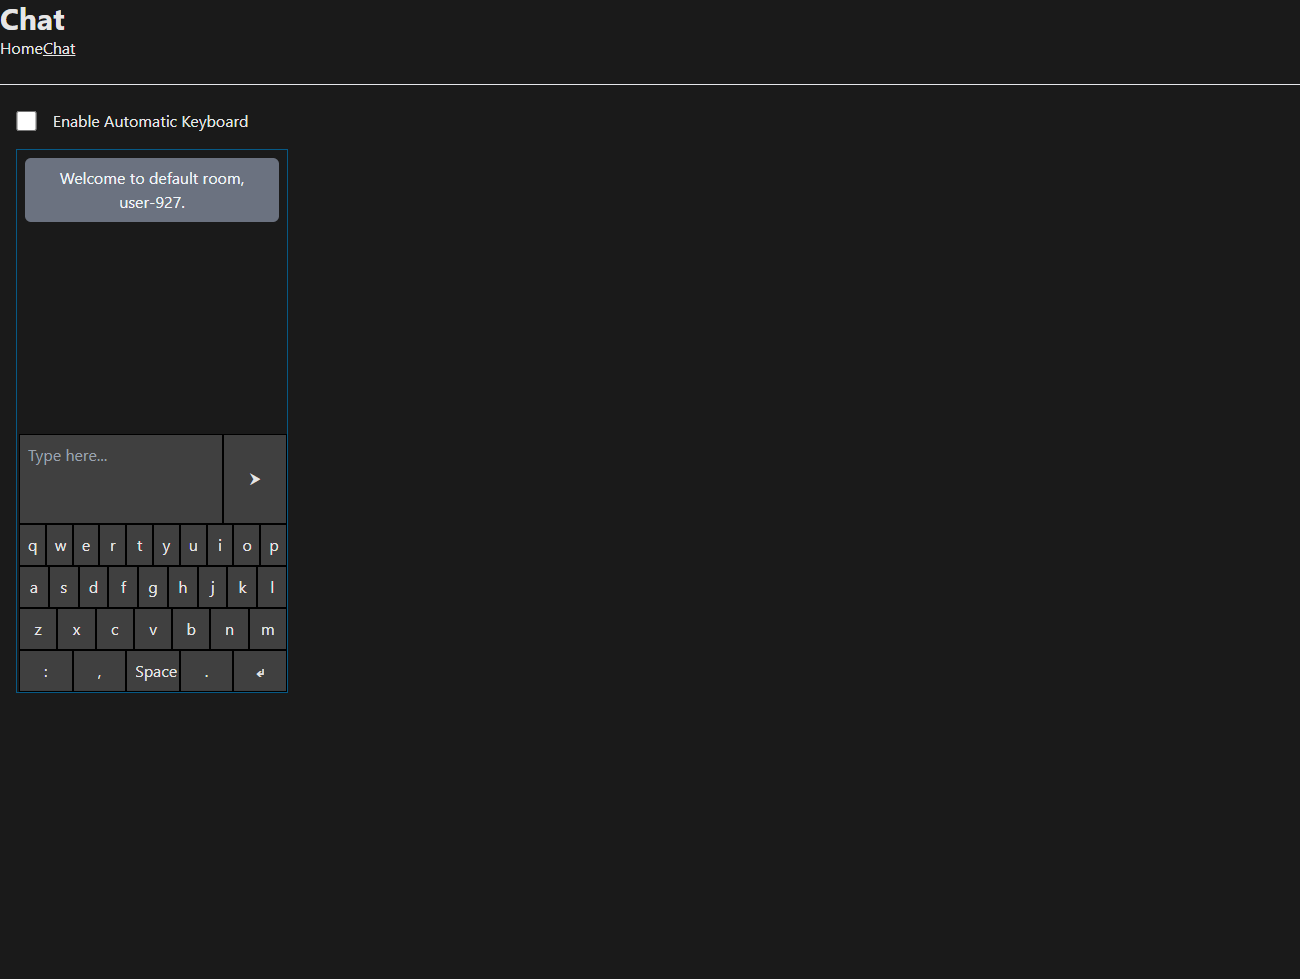
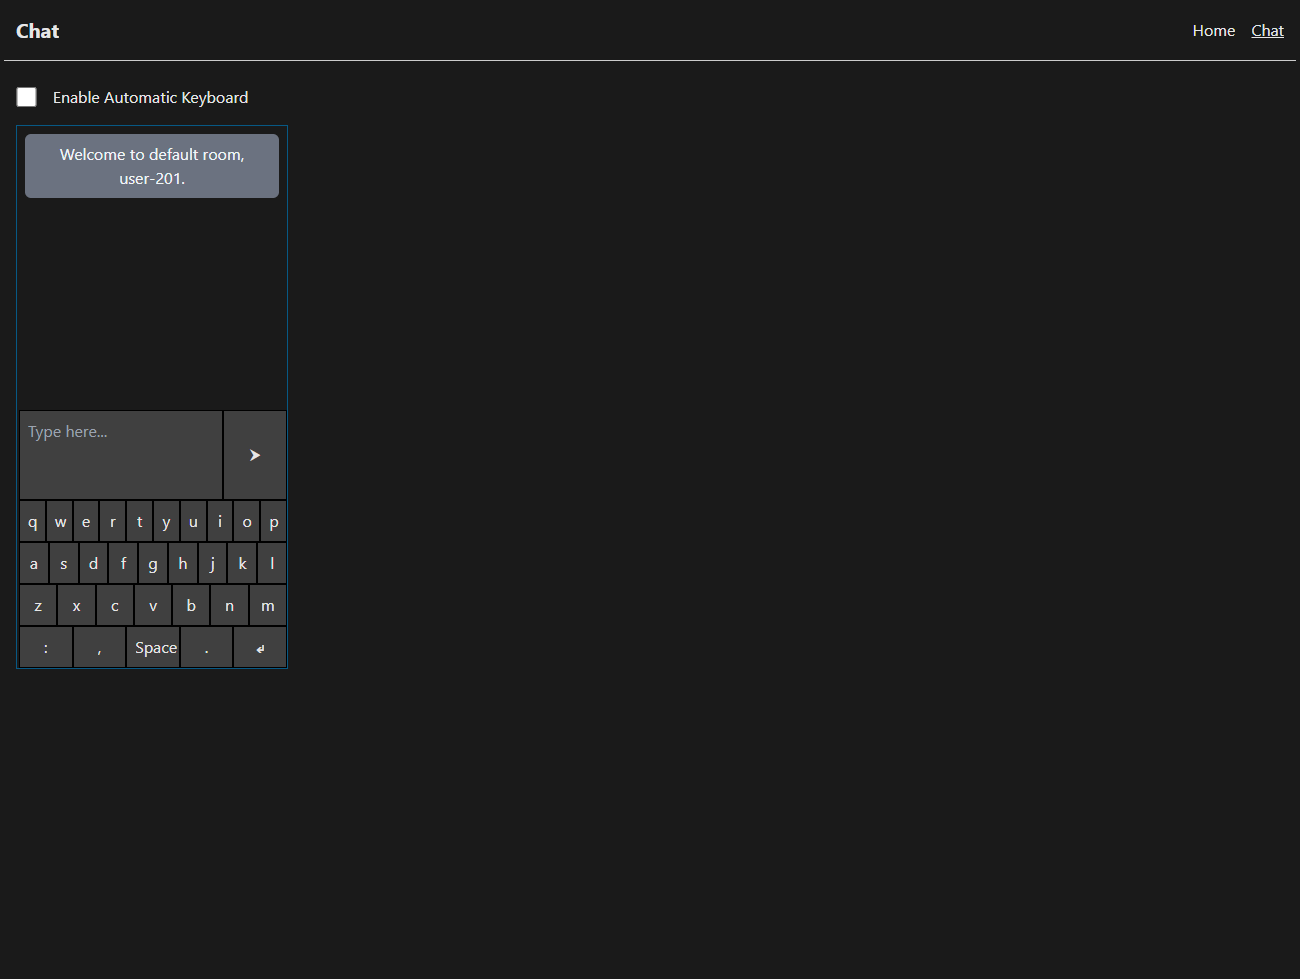
style:fe: styled nav bar

diff --git a/client/src/components/Nav/Nav.tsx b/client/src/components/Nav/Nav.tsx
@@ -1,42 +1,40 @@
 import { NavLink, useLocation } from 'react-router-dom';
 import { FC, useEffect, useState } from 'react';
 import { pageDict } from '../../helpers/pageRoutes';
+import { capitalizeFirstLetter } from '../../helpers/misc';
 import styles from './Nav.module.scss';
 
 interface INavProps {
 }
 
 const Nav: FC<INavProps> = (props) => {
-
-
-  const location = useLocation();
+  const { pathname } = useLocation();
   const [ currPage, setCurrPage ] = useState('');
-  const [ isCurrPage, setIsCurrPage ] = useState({});
 
   useEffect(() => {
     updateCurrPage();
 
-  }, [location]);
+  }, [pathname]);
 
   function updateCurrPage() {
-    const newPage = pageDict[location?.pathname];
-    if (!newPage && typeof(newPage) !== 'string') return;
-    const newPageCapitalized = newPage?.charAt(0)?.toUpperCase() + newPage.slice(1, newPage.length);
-    console.log(`location: `, location, newPage, newPageCapitalized.toLowerCase());
+    const newPage = pageDict[pathname];
+    if (!newPage) return;
+    const newPageCapitalized = capitalizeFirstLetter(newPage);
 
     setCurrPage(newPageCapitalized);
   };
 
+
   return (
     <div className={styles['nav-container']}>
       <div className={styles['content']}>
-        <h1 className='text-3xl font-bold'>
+        <h1 className={styles['curr-page-title']}>
           {currPage}
         </h1>
 
         <div className={styles['links']}>
           <NavLink
-            className={location.pathname === '/' && (
+            className={pathname === '/' && (
               styles['curr-page']
             )}
             to='/'
@@ -44,7 +42,7 @@ const Nav: FC<INavProps> = (props) => {
             Home
           </NavLink>
           <NavLink
-            className={location.pathname === '/chat' && (
+            className={pathname === '/chat' && (
               styles['curr-page']
             )}
             to='/chat'
@@ -55,7 +53,6 @@ const Nav: FC<INavProps> = (props) => {
         </div>
 
       </div>
-      <br /><hr /><br />
 
     </div>
   )

diff --git a/client/src/helpers/misc.ts b/client/src/helpers/misc.ts
@@ -1,11 +1,15 @@
 
-export const uuid = (noOfDigits=6) => {
+export const uuid = (noOfDigits=6):number => {
   const powerOfTen = Number('1'+'0'.repeat(noOfDigits));
   return Math.ceil(Math.random()*powerOfTen);
 };
 
-export const sampleTexts = {
+export const sampleTexts:{[x:string]:string} = {
   // eslint-disable-next-line max-len
   'matrixKungFu': "NEO: I know kung fu. MORPHEUS: Show me. This is a sparring program, similar to the programmed reality of Matrix. It has the same basic rules. Rules like gravity. What you must learn is that these rules are no different than the rules of a computer system. Some of them can be bent. Others can be broken. Hit me, if you can.",
 
 };
+
+export const capitalizeFirstLetter = (newPage=''):string => {
+  return newPage?.charAt(0)?.toUpperCase() + newPage.slice(1, newPage.length);
+}

diff --git a/client/src/components/Nav/Nav.module.scss b/client/src/components/Nav/Nav.module.scss
@@ -1,4 +1,29 @@
+@use '../../styles/App.scss' as *;
 
-.curr-page {
-  text-decoration: underline;
+.nav-container {
+  border-bottom: 1px solid hsl(0deg, 0, 80%);
+  margin: 0rem 0.25rem 1.5rem;
+
+  .content {
+    @apply flex_space-between_center;
+    margin: 1rem 0.75rem;
+    user-select: none;
+  }
+
+  h1.curr-page-title {
+    @apply text-xl;
+    @apply font-bold;
+  }
+
+  .links {
+    @apply flex;
+    gap: 1rem;
+    // min-width: 40vw;
+  }
+
+  .curr-page {
+    text-decoration: underline;
+  }
+
 }
+

diff --git a/client/src/styles/App.scss b/client/src/styles/App.scss
@@ -5,7 +5,7 @@
 @forward 'maps.scss';
 
 body {
-  height: 100vh;
+  height: 100%;
   color: hsl(0deg 0% 90%);
   background-color: hsl(0deg 0% 10%);
 }
